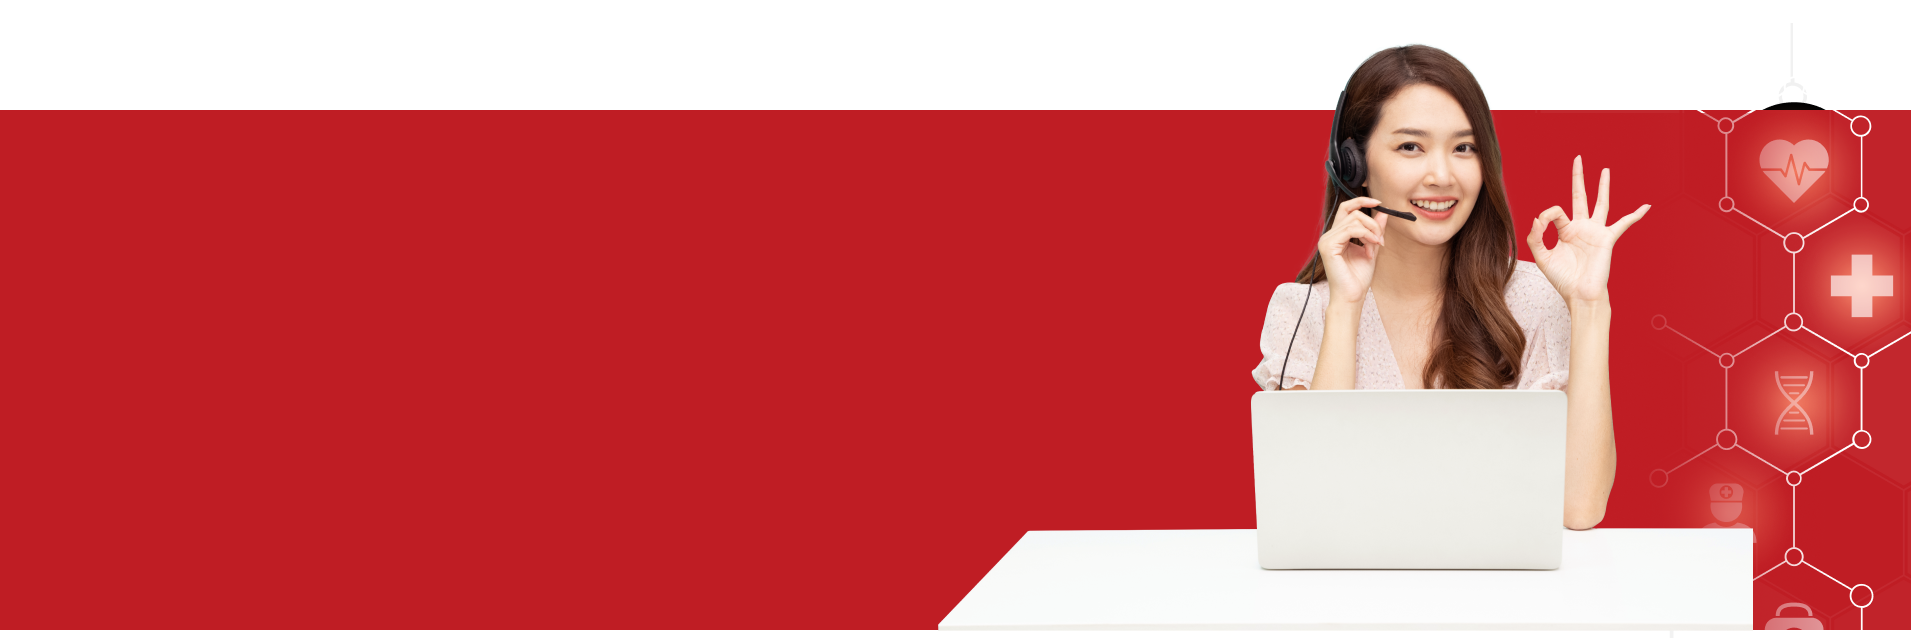
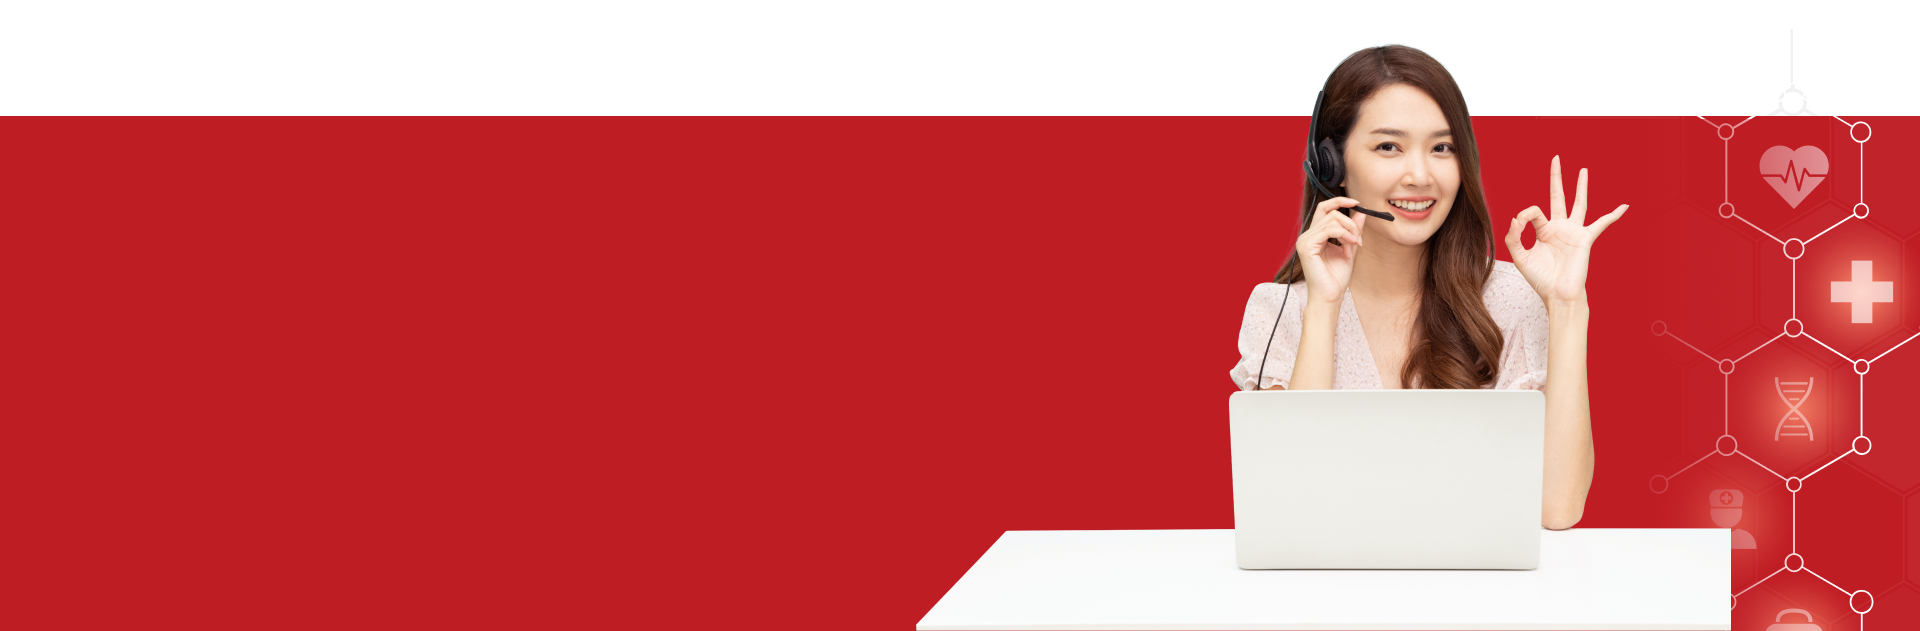
commit

diff --git a/src/app/app.component.css b/src/app/app.component.css
@@ -18,7 +18,7 @@ header.fixed .inner {
 header .inner {
   align-items: center;
   height: 133px;
-  max-width: 1478px;
+  max-width: 1498px;
 }
 
 /* HEADER LEFT */
@@ -132,8 +132,9 @@ main .service-menu img {
 main .how-it-work {
   background: #f8f8f8;
   width: 100%;
-  padding: 60px 0;
   text-align: center;
+  z-index: 0;
+  margin-bottom: -73px;
 }
 
 .how-it-work h2 {
@@ -167,12 +168,14 @@ main .how-it-work {
 }
 
 .advise-banner {
-  padding-top: 48px;
-  background-color: #bf1d24;
+  padding-top: 160px;
+  background: url("../assets/img/bgTuvan.png") #f8f8f8 no-repeat center;
+  width: 100%;
+  height: 100%;
+  z-index: 1;
 }
-
-.advise-info > * {
-  background-color: #bf1d24;
+.advise-info {
+  z-index: 2;
 }
 
 .advise-info .title {
@@ -228,28 +231,10 @@ main .how-it-work {
   border: none;
 }
 
-.advise-photo {
-  background: transparent;
-}
-
-.advise-photo img {
-  background: transparent;
-}
-
-.advise-photo .asia-girl {
+.advise-banner img {
   background: transparent;
   position: absolute;
-  top: -390px;
-  left: -120px;
   z-index: 2;
-}
-
-.advise-photo .chain {
-  background: transparent;
-  position: absolute;
-  top: -375px;
-  right: -330px;
-  z-index: 1;
 }
 
 .ecosystem {

diff --git a/src/assets/css/responsive/app-responsive.css b/src/assets/css/responsive/app-responsive.css
@@ -1,4 +1,7 @@
 @media screen and (max-width: 1850px) {
+  .advise-photo img {
+    display: none;
+  }
 }
 
 @media screen and (max-width: 1800px) {
@@ -32,7 +35,6 @@
 }
 
 @media (min-width: 1200px) and (max-width: 1320px) {
-
 }
 
 @media screen and (max-width: 1239px) {
@@ -53,6 +55,13 @@
   .header-left {
     flex: 0 0 75%;
     max-width: fit-content;
+  }
+  .how-it-work {
+    padding-bottom: 120px;
+  }
+  .advise-banner {
+    background: #bf1d24 !important;
+    padding-top: 60px;
   }
 }
 
@@ -80,7 +89,10 @@
   }
 }
 
-@media screen and (max-width: 767px) {
+@media screen and (max-width: 628px) {
+  .advise-info a {
+    min-width: 537px;
+  }
 }
 
 @media screen and (max-width: 575px) {
@@ -92,6 +104,10 @@
   }
   main .service-menu {
     padding: 0px 0px 30px 0px;
+  }
+  .advise-info a {
+    min-width: 256px;
+    max-width: 256px;
   }
 }
 
@@ -117,3 +133,4 @@
 
 @media screen and (max-width: 375px) {
 }
+

diff --git a/src/app/app.component.html b/src/app/app.component.html
@@ -165,9 +165,6 @@
           <a href="" class="btn col-sm-12">NHẬN TƯ VẤN NGAY</a>
         </div>
       </div>
-      <div class="advise-photo col-sm-6">
-        <img class="asia-girl" />
-      </div>
     </div>
   </div>
   <!-- HỆ SINH THÁI -->
